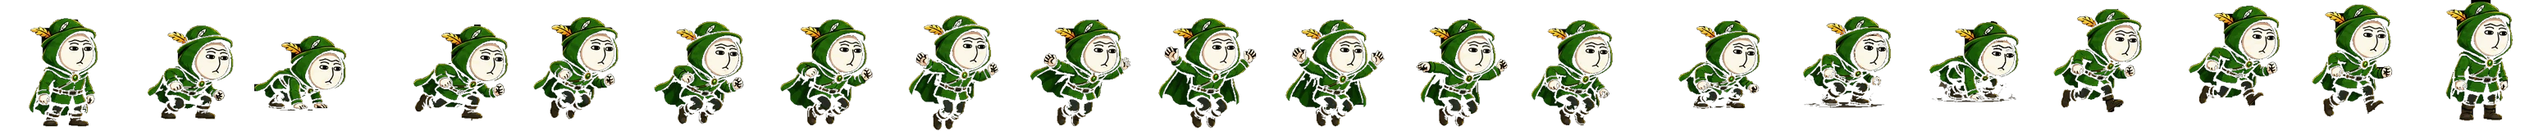
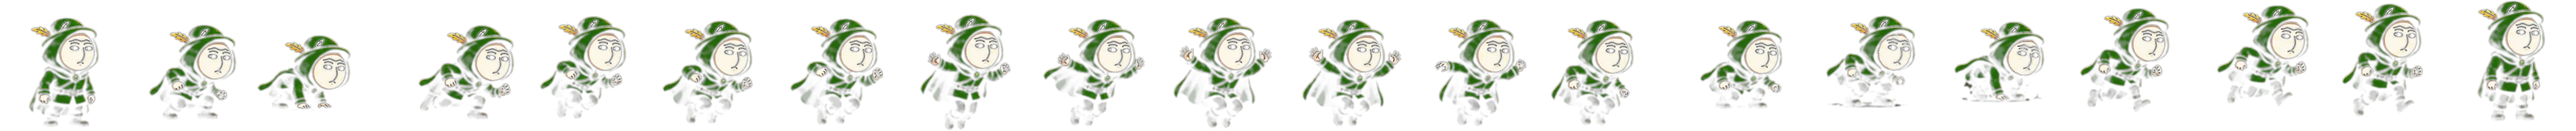
Hood Runner: character back to a plain format conversion, 3s restart delay, smooth overlay fade
Per request, character-run.webp / character-jump.webp are now just the
original Character-run.gif / Character-jump.gif re-encoded to WebP with
a single basic luminance-key transparency pass (needed at all only
because the source has an opaque black background, not a real alpha
channel) -- no dust removal, no erosion-based hole rescue, no per-frame
tuning. This intentionally brings back the softer/translucent look in
the lower body that earlier fixes this session targeted; explicitly
what was asked for over chasing further fixes. Draw-size ratios in
dino-game.js updated to match this version's frame dimensions
(144/160, 157/160).

Restart cooldown after game over raised from 2s to 3s.

Overlay show/hide now cross-fades (0.25s opacity transition, toggled via
an .is-visible class with a forced reflow so it actually animates)
instead of an instant hidden/visible snap -- the whole play -> game over
-> wait -> restart cycle reads smoother. Restart timing itself is still
governed purely by the 3s cooldown clock, independent of the fade.

Changed region(s): [[0.0, 0.0, 0.991, 0.9688]]

diff --git a/js/dino-game.js b/js/dino-game.js
@@ -192,7 +192,7 @@ if (canvas) {
     ensureLoopRunning();
   }
 
-  const RESTART_COOLDOWN = 2000; // ms -- avoids an accidental restart from the same tap/key that just lost the run
+  const RESTART_COOLDOWN = 3000; // ms -- avoids an accidental restart from the same tap/key that just lost the run
 
   function endRun() {
     state = STATE.OVER;
@@ -226,8 +226,10 @@ if (canvas) {
     player.jumpTimer = 0;
   }
 
+  let overlayHideTimer = null;
   function showOverlay(title, lines) {
     if (!overlay) return;
+    if (overlayHideTimer) { clearTimeout(overlayHideTimer); overlayHideTimer = null; }
     if (overlayTitle) overlayTitle.textContent = title;
     if (overlayLines) {
       overlayLines.innerHTML = '';
@@ -243,9 +245,15 @@ if (canvas) {
       });
     }
     overlay.hidden = false;
+    // Force a reflow so the opacity transition below actually animates
+    // from 0 instead of snapping straight to 1 in the same paint.
+    void overlay.offsetWidth;
+    overlay.classList.add('is-visible');
   }
   function hideOverlay() {
-    if (overlay) overlay.hidden = true;
+    if (!overlay) return;
+    overlay.classList.remove('is-visible');
+    overlayHideTimer = setTimeout(() => { overlay.hidden = true; overlayHideTimer = null; }, 260);
   }
 
   // ---------- collision ----------
@@ -417,9 +425,9 @@ if (canvas) {
 
     // player
     if (player.grounded) {
-      drawFrame(SPRITES.run, state === STATE.PLAYING ? player.runFrame : 0, player.x, player.y, GROUND_HEIGHT * (122 / 160), GROUND_HEIGHT);
+      drawFrame(SPRITES.run, state === STATE.PLAYING ? player.runFrame : 0, player.x, player.y, GROUND_HEIGHT * (144 / 160), GROUND_HEIGHT);
     } else {
-      drawFrame(SPRITES.jump, player.jumpFrame, player.x, player.y, GROUND_HEIGHT * (155 / 160), GROUND_HEIGHT);
+      drawFrame(SPRITES.jump, player.jumpFrame, player.x, player.y, GROUND_HEIGHT * (157 / 160), GROUND_HEIGHT);
     }
 
     // "+score" popups float up and fade out over their lifetime

diff --git a/styles.css b/styles.css
@@ -851,7 +851,9 @@
     text-align:center; padding:20px;
     background:rgba(247,247,248,0.9);
     pointer-events:none;
+    opacity:0; transition:opacity 0.25s ease;
   }
+  .hood-game-overlay.is-visible{opacity:1;}
   .hood-game-overlay[hidden]{display:none;}
   .hood-game-overlay-inner{max-width:26ch;}
   .hood-game-overlay-title{
